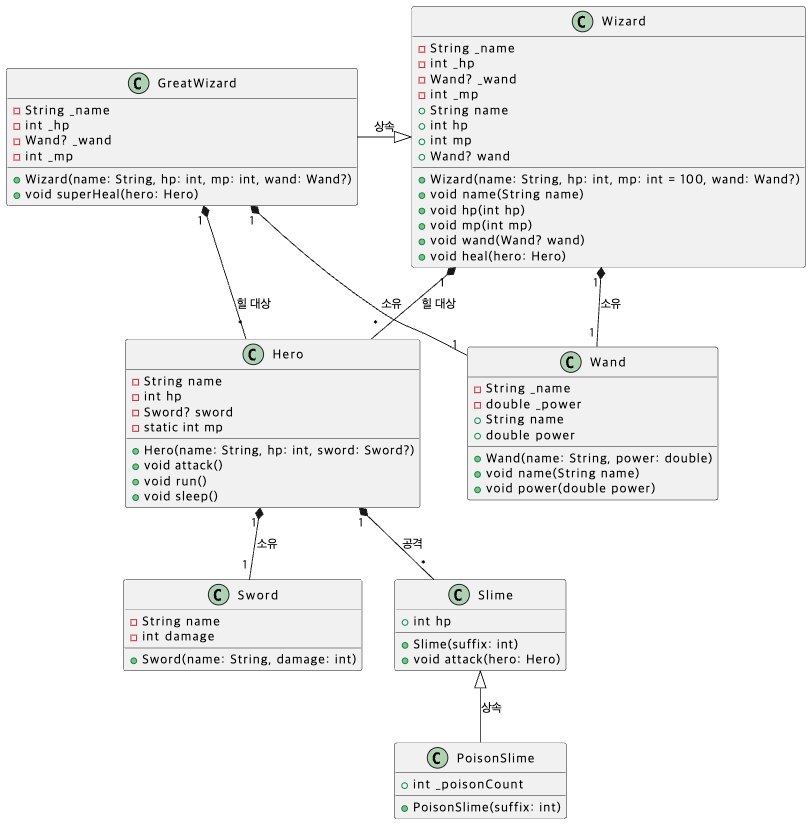
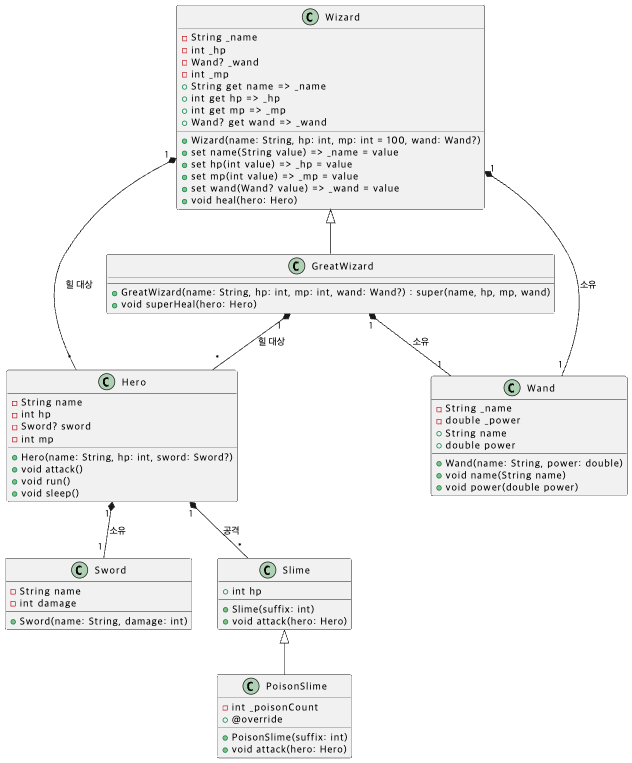
FIX: 20250318 수정사항 커밋

diff --git a/assignments/2025-03-18/great_wizard.dart b/assignments/2025-03-18/great_wizard.dart
@@ -8,12 +8,12 @@ class GreatWizard extends Wizard {
     : super(name: name, hp: hp, mp: mp, wand: wand);
 
   void superHeal(Hero hero) {
-    if (this.mp < 50) {
+    if (mp < 50) {
       print("마나가 부족합니다");
       return;
     }
 
-    this.mp -= 50;
+    mp -= 50;
     hero.hp = Hero.maxHp;
 
     print("슈퍼 힐을 시전했습니다. 대상 HP: ${hero.hp}");

diff --git a/lib/2025-03-14/hero.dart b/lib/2025-03-14/hero.dart
@@ -33,7 +33,7 @@ class Hero {
   /* 3) 클래스에 생성자는 무조건 한개 이상 */
   // -------------------------* 메서드 *-------------------------
   // [attack] 공격 받았을 시, hp 5씩 줄어드는 함수
-  void attack(int demage) {
+  void receiveDamage(int demage) {
     print('$demage 의 데미지');
     hp -= demage;
     if (hp <= 0) {

diff --git a/lib/2025-03-14/slime.dart b/lib/2025-03-14/slime.dart
@@ -1,6 +1,13 @@
-class Slime {
-  final int level = 10;
-  int hp;
+import 'package:modu_3_dart_study/2025-03-14/hero.dart';
 
-  Slime({required this.hp});
+class Slime {
+  int hp = 50;
+  final String suffix;
+
+  Slime(this.suffix);
+
+  void attack(Hero hero) {
+    print('슬라임 $suffix이/가 공격했다');
+    hero.receiveDamage(10);
+  }
 }

diff --git a/assignments/2025-03-18/poison_slime.dart b/assignments/2025-03-18/poison_slime.dart
@@ -45,7 +45,7 @@ class PoisonSlime extends Slime {
       print("추가로, 독 포자를 살포했다!");
       int damage = (hero.hp / 5).toInt();
 
-      hero.attack(damage);
+      hero.receiveDamage(damage);
       _poisonCount--;
     }
   }

diff --git a/assignments/2025-03-18/slime.dart b/assignments/2025-03-18/slime.dart
@@ -8,6 +8,6 @@ class Slime {
 
   void attack(Hero hero) {
     print('슬라임 $suffix이/가 공격했다');
-    hero.attack(10);
+    hero.receiveDamage(10);
   }
 }
